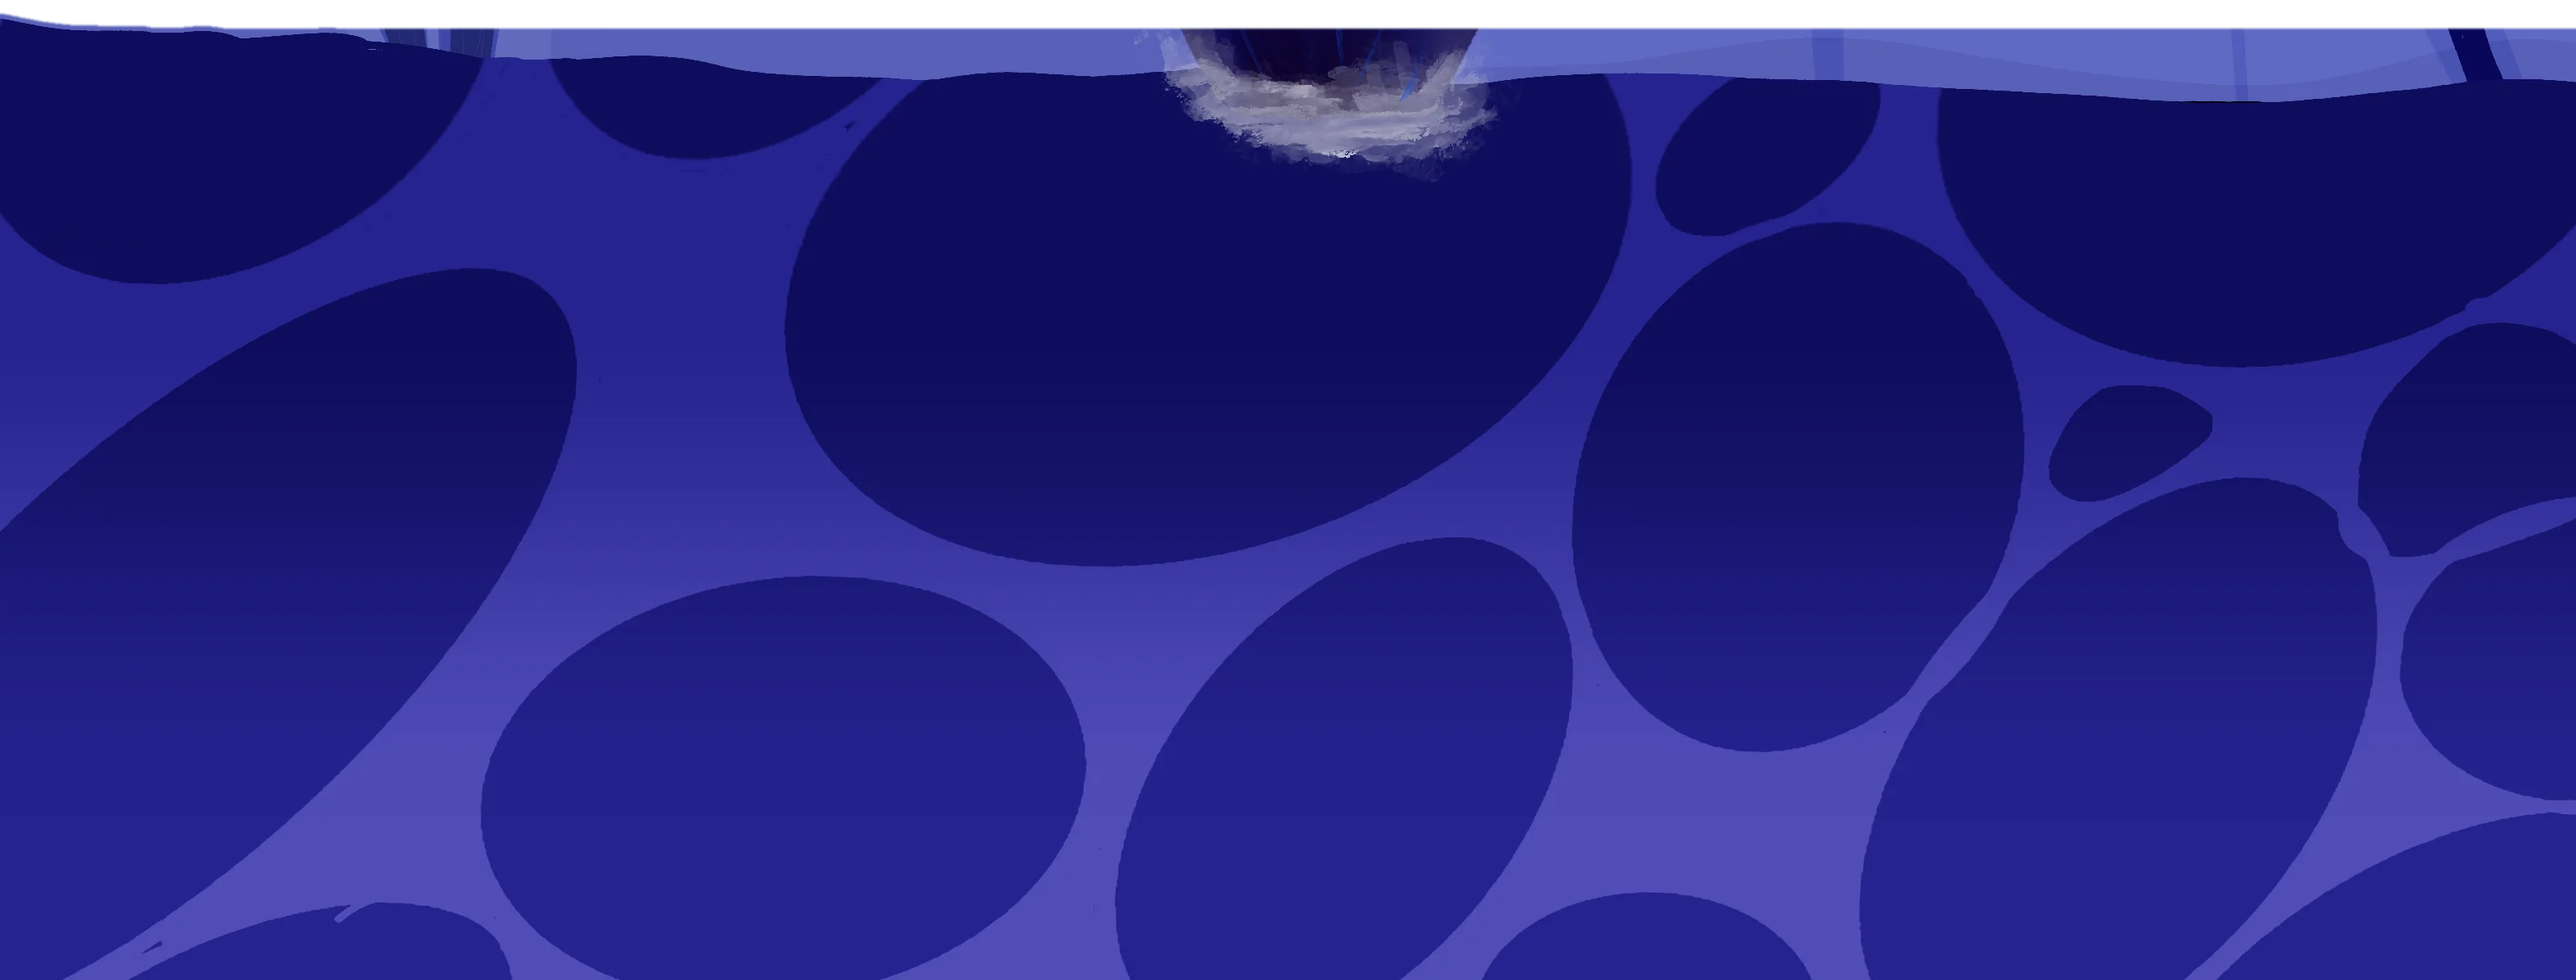
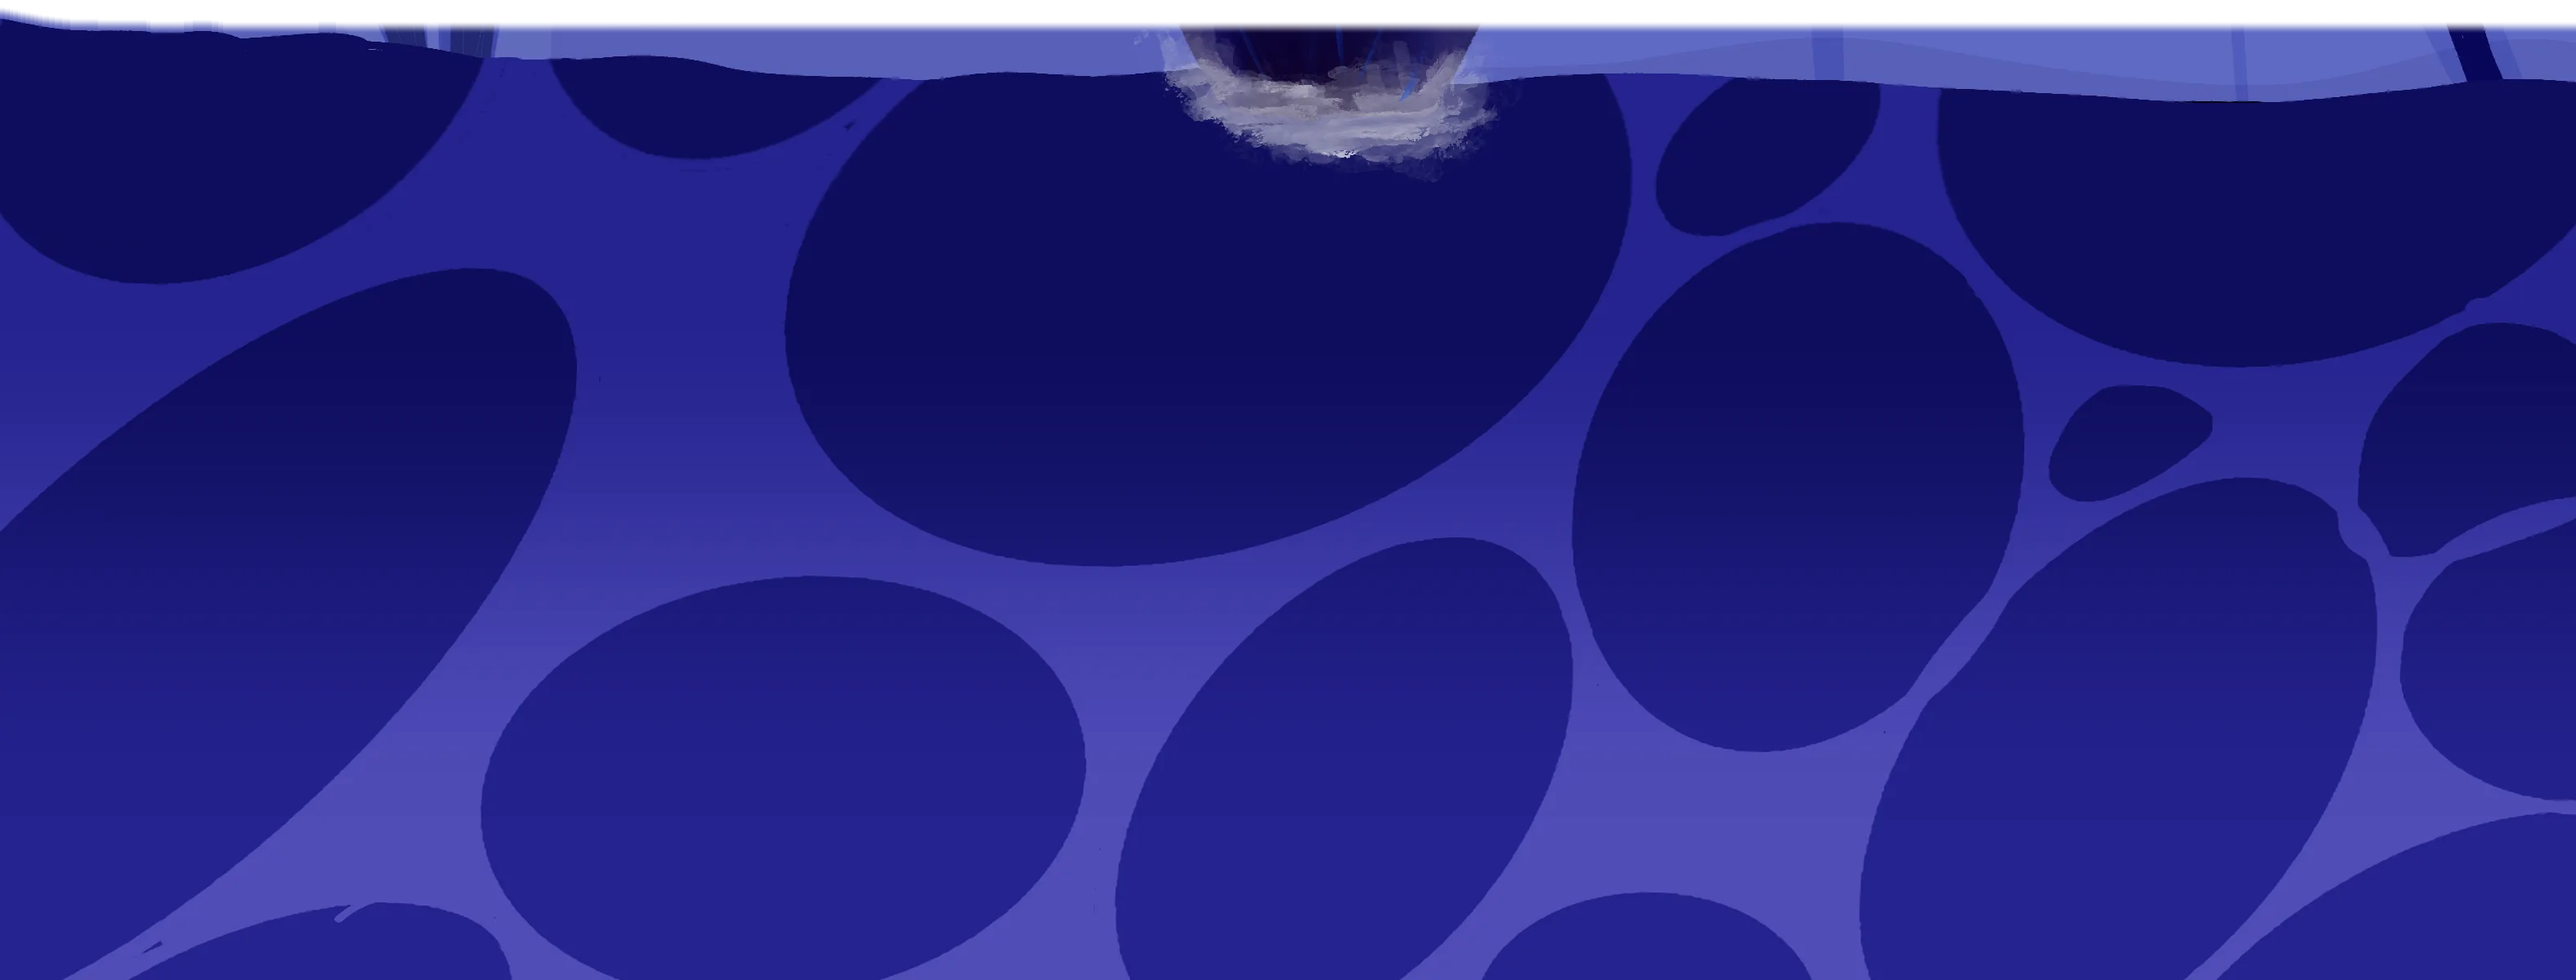
Floor band: ramp the wall-foot piece's top edge so no seam line shows

Changed region(s): [[0.0, 0.0, 1.0, 0.0308]]

diff --git a/script/export_landing_world.py b/script/export_landing_world.py
@@ -162,11 +162,8 @@ k = 41
 pad = np.pad(edge, k // 2, mode="edge")
 edge = np.array([np.median(pad[i:i + k]) for i in range(W)]).astype(int)
 top = np.minimum(edge - 6, 4735)
-alpha = np.zeros((F_Y1 - F_Y0, W), np.float32)
-for x in range(W):
-    alpha[max(0, top[x] - F_Y0):, x] = 1
-alpha = np.asarray(Image.fromarray((alpha * 255).astype(np.uint8)).filter(ImageFilter.GaussianBlur(1.2))).astype(np.float32)
-alpha[top.max() - F_Y0 + 30:] = 255
+# a 16-row ramp (not a hard edge), so any rounding difference with the cave piece's identical pixels cannot show as a line
+alpha = 255 * smooth((np.arange(F_Y0, F_Y1, dtype=np.float32)[:, None] - (top[None, :] - 10)) / 16)
 piece = np.dstack([rgb, alpha]).clip(0, 255).astype(np.uint8)
 top_img = Image.fromarray(piece, "RGBA")
 
